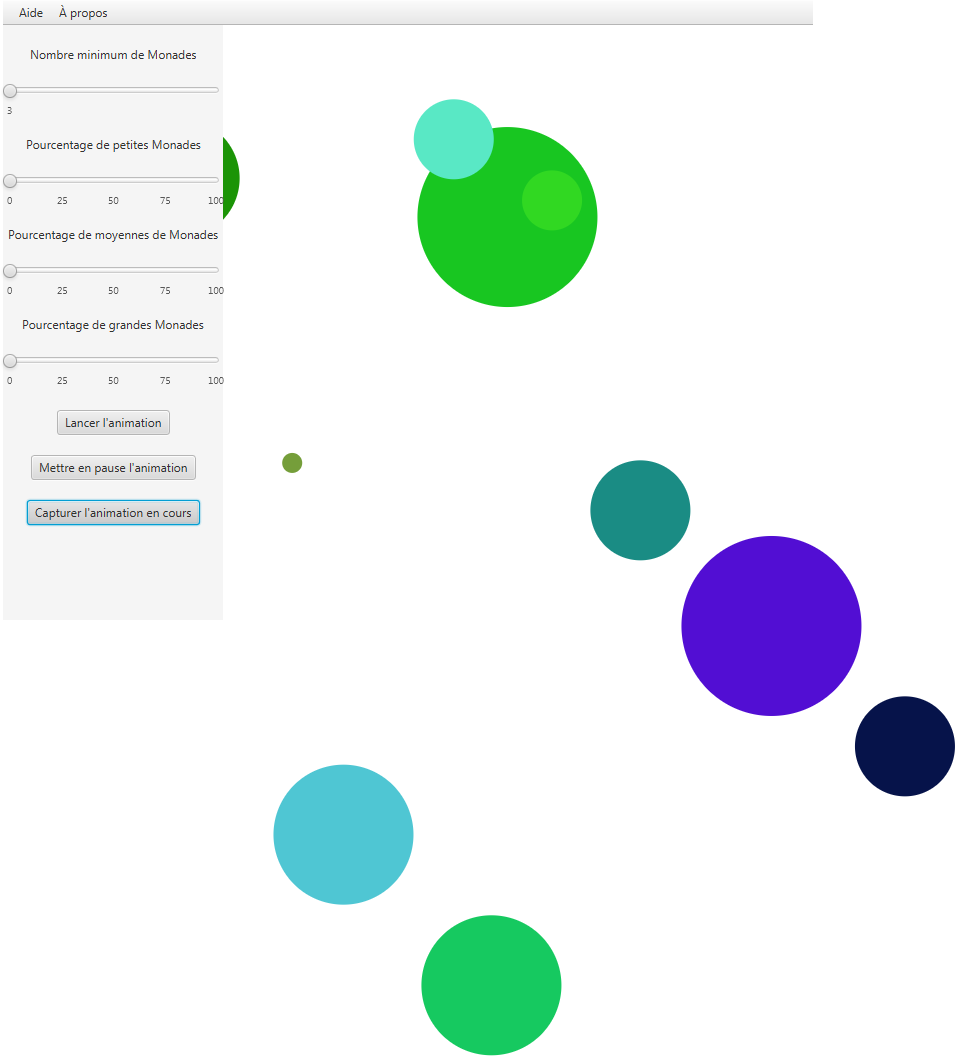
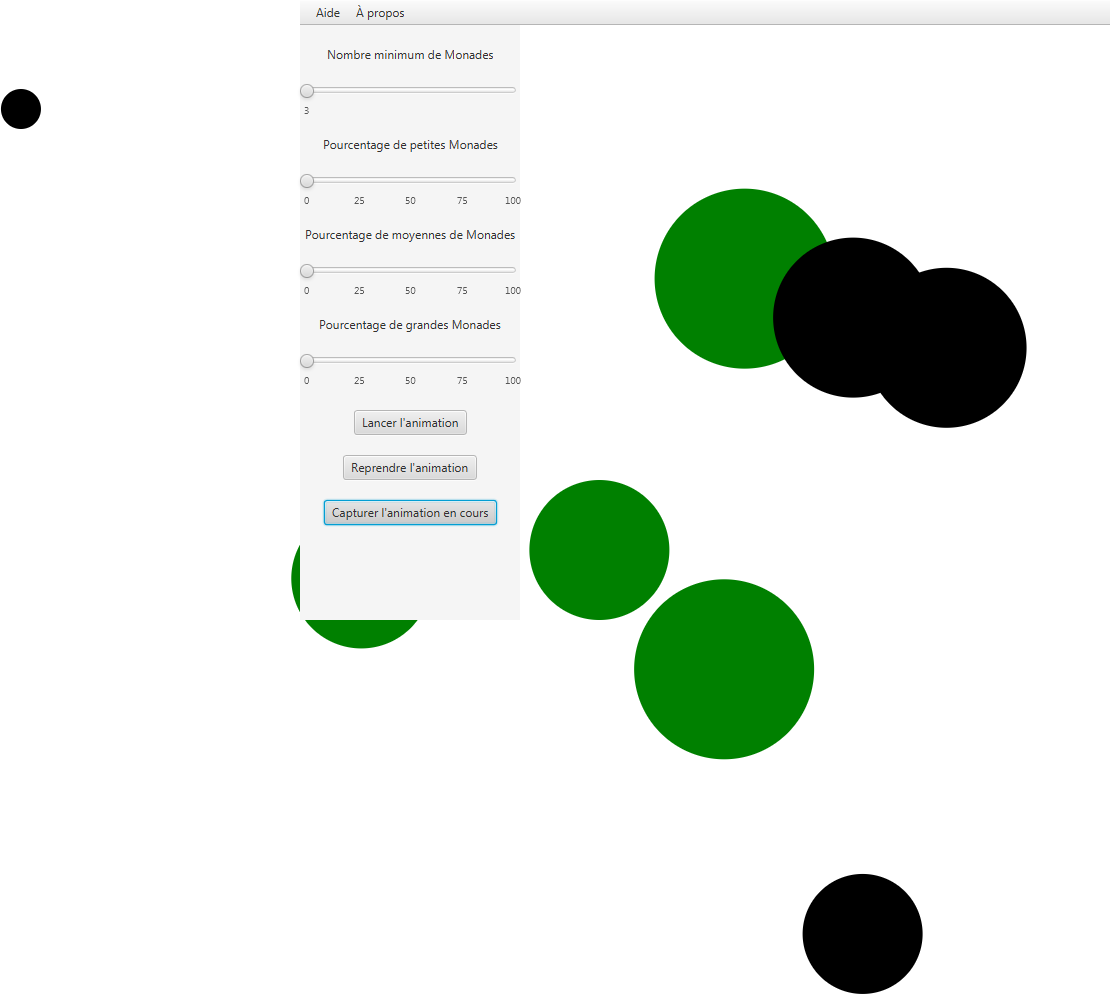
ninja

diff --git a/Projet tutoré - Monades en Suspension/src3/adress/model/AnimatedShapeThread.java b/Projet tutoré - Monades en Suspension/src3/adress/model/AnimatedShapeThread.java
@@ -5,6 +5,7 @@ import java.util.Random;
 import javafx.animation.Animation;
 import javafx.animation.Interpolator;
 import javafx.animation.KeyFrame;
+import javafx.animation.PathTransition;
 import javafx.animation.Timeline;
 import javafx.animation.TranslateTransition;
 import javafx.event.ActionEvent;
@@ -12,6 +13,9 @@ import javafx.event.EventHandler;
 import javafx.scene.Cursor;
 import javafx.scene.input.MouseEvent;
 import javafx.scene.paint.Color;
+import javafx.scene.shape.CubicCurveTo;
+import javafx.scene.shape.MoveTo;
+import javafx.scene.shape.Path;
 import javafx.scene.shape.Shape;
 import javafx.util.Duration;
 
@@ -24,13 +28,21 @@ import javafx.util.Duration;
 public class AnimatedShapeThread implements Runnable {
 	
 	private final Shape circ1;
-	
 	private Animation animation;
-	
 	private boolean isOutOfFrame;
+	
+	private TranslateTransition trans;
+	private int x;
+	private int y;
+	
+	public int getX() { return x; }
+	public int getY() { return y; }
 	
 	private Random r = new Random();
 	
+	/**
+	 * Builder
+	 */
 	public AnimatedShapeThread() {
 		super();
 		/* Instantiation of the ExtentedCircle */
@@ -55,8 +67,9 @@ public class AnimatedShapeThread implements Runnable {
 	@Override
 	public void run() {
 
+		shuffleXY(10);
 		this.animation = new Timeline(
-				new KeyFrame(Duration.millis(3000),
+				new KeyFrame(Duration.millis(100),
 
 						new EventHandler<ActionEvent>() {
 
@@ -65,24 +78,7 @@ public class AnimatedShapeThread implements Runnable {
 						int sceneSize = WindowImpl.SCENE_SIZE;
 
 						if(circ1 instanceof ExtentedCircle){
-							TranslateTransition trans = new TranslateTransition(Duration.millis(/*r.nextInt(*/3000), circ1 );
-
-							/* Generation of the coordinates of the move */
-							int x = r.nextInt(120);
-							int y = 120-x;
-							boolean p = r.nextBoolean();
-							if(p==true) x = -x;
-							p = r.nextBoolean();
-							if(p==true) y = -y;
-
-							trans.setByX(x);
-							trans.setByY(y);
-							/* Coordinates updated */
-							((ExtentedCircle)circ1).setX(((ExtentedCircle) circ1).getX()+x);
-							((ExtentedCircle)circ1).setY(((ExtentedCircle) circ1).getY()+y);
-
-							trans.setInterpolator(Interpolator.LINEAR);
-							trans.play();
+							applyTranslation(100);
 						}
 						if(
 								( ((ExtentedCircle) circ1).getX() >= sceneSize + ((ExtentedCircle) circ1).getRadius()) ||
@@ -99,7 +95,7 @@ public class AnimatedShapeThread implements Runnable {
 							circ1.setFill(Color.GREEN);
 						}
 						
-					}
+					}				
 
 				}) );
 		animation.setCycleCount(Animation.INDEFINITE);
@@ -108,6 +104,59 @@ public class AnimatedShapeThread implements Runnable {
 
 	public Animation getAnimation() {
 		return animation;
+	}
+	/**
+	 * apply a Transition to the shape
+	 */
+	private void applyTranslation(double ms) {
+		
+		
+		
+		for(int i = 100;i>=0;i--)
+		{
+			TranslateTransition trans = new TranslateTransition(Duration.millis(/*r.nextInt(*/ms), this.circ1 );
+			
+			trans.setByX(this.x);
+			trans.setByY(this.y);
+
+			/* Coordinates updated */
+			((ExtentedCircle) this.circ1).setX(((ExtentedCircle) this.circ1).getX()+x);
+			((ExtentedCircle) this.circ1).setY(((ExtentedCircle) this.circ1).getY()+y);
+
+			trans.setInterpolator(Interpolator.LINEAR);
+			trans.play();
+		}
+		/*
+		CubicCurveTo curve = new CubicCurveTo(380, 120, 10, 240, 380, 240);
+		
+		Path path = new Path();
+		path.getElements().add(new MoveTo(20,20));
+		//path.getElements().add(new CubicCurveTo(380, 0, 380, 120, 200, 120));
+		path.getElements().add(new CubicCurveTo(380, 120, 10, 240, 380, 240));
+		PathTransition pathTransition = new PathTransition();
+		pathTransition.setDuration(Duration.millis(4000));
+		pathTransition.setPath(path);
+		pathTransition.setNode(this.circ1);
+		pathTransition.setOrientation(PathTransition.OrientationType.ORTHOGONAL_TO_TANGENT);
+		pathTransition.setCycleCount(Timeline.INDEFINITE);
+		pathTransition.setInterpolator(Interpolator.LINEAR);
+		pathTransition.play();
+		*/
+	
+	}
+	
+	/**
+	 * generates randomly an X for the Translation
+	 */
+	public void shuffleXY(int range) {
+
+		this.x = r.nextInt(range);
+		boolean p = r.nextBoolean();
+		if(p==true) x = -x;
+
+		this.y = range - this.x;
+		p = r.nextBoolean();
+		if(p==true) y = -y;
 	}
 
 	/**

diff --git a/Projet tutoré - Monades en Suspension/src3/adress/model/CopyOfAnimationImpl.java b/Projet tutoré - Monades en Suspension/src3/adress/model/CopyOfAnimationImpl.java
@@ -31,7 +31,7 @@ public class CopyOfAnimationImpl implements Runnable {
 	private Group root;
 
 	private final Group circles;
-	
+
 	private final Timeline animation;
 
 	private ArrayList<AnimatedShapeThread> threadShapes = new ArrayList();
@@ -67,31 +67,35 @@ public class CopyOfAnimationImpl implements Runnable {
 	 * @return animation : the overall timeline
 	 */
 	private Timeline buildTimeline() {
-		final Timeline animation = new Timeline( new KeyFrame(Duration.millis(3000), new EventHandler<ActionEvent>() {
+		final Timeline animation = new Timeline( new KeyFrame(Duration.millis(1), new EventHandler<ActionEvent>() {
 
 			@Override
 			public void handle(ActionEvent arg0) {
 
 				/* Generation of shapes */
 				checkNumberOfShapes();
+				//System.out.println("caca");
 
 				/* Translation applied on each circle */
-				for(Node circ1 : circles.getChildren()){
+				/*
+				 * for(Node circ1 : circles.getChildren()){
+
 
 					/*if(
 										circ1;
 								{
 									System.out.println("Cercle " + circles.getChildren().indexOf(circ1) + "se casse" );
 									circles.getChildren().remove(circ1);
-								}*/
+								}
 					System.out.println("Cercle " + circles.getChildren().indexOf(circ1) + " x:" + ((ExtentedCircle) circ1).getX() + " y:" + ((ExtentedCircle) circ1).getY() );
 					//checkShapeCollision((Shape) circ1);
-				}}
+				}*/
+				}
 
-			}));
+		}));
 		return animation;
 	}
-	
+
 	/**
 	 * @param
 	 * method responsible of the overall animation
@@ -145,16 +149,19 @@ public class CopyOfAnimationImpl implements Runnable {
 						}
 
 						/* Translation applied on each circle */
-						for(Node circ1 : circles.getChildren()){
+						/*
+						 * for(Node circ1 : circles.getChildren()){
 
-							/*if(
+							if(
 										circ1;
 								{
 									System.out.println("Cercle " + circles.getChildren().indexOf(circ1) + "se casse" );
 									circles.getChildren().remove(circ1);
-								}*/
-							System.out.println("Cercle " + circles.getChildren().indexOf(circ1) + " x:" + ((ExtentedCircle) circ1).getX() + " y:" + ((ExtentedCircle) circ1).getY() );
-						}}}));
+								}
+							//System.out.println("Cercle " + circles.getChildren().indexOf(circ1) + " x:" + ((ExtentedCircle) circ1).getX() + " y:" + ((ExtentedCircle) circ1).getY() );
+						}
+						 */
+					}}));
 		animation.setCycleCount(Animation.INDEFINITE);
 		animation.play();
 	}
@@ -168,7 +175,7 @@ public class CopyOfAnimationImpl implements Runnable {
 		this.circles.getChildren().add(circThread.getShape());
 		circThread.run();
 	}
-	
+
 	/**
 	 * generates shapes or not considering their number
 	 */
@@ -256,6 +263,6 @@ public class CopyOfAnimationImpl implements Runnable {
 		animation.play();
 	}
 
-	
+
 
 }
